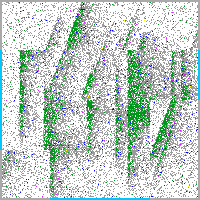
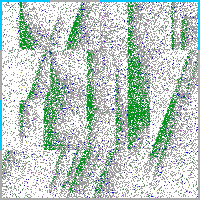
Regenerate FCM-PM demo with complementary partition (group of 2)
User intent: in a group of 2, one member claims chosen grid P, the other
claims the remaining grid ~P. Combining the two mixed chips reconstructs
the full chip image.

Implementation:
- ONE random partition into P and ~P (complementary halves)
- mixed_A (A label): A at P, B at ~P  (A's selected grid = P)
- mixed_B (B label): A at ~P, B at P  (A's grid = remaining ~P; complementary)
  -> A coverage across mixed_A + mixed_B: P ∪ ~P = full A
  -> B coverage across mixed_A + mixed_B: ~P ∪ P = full B
- masked_A (A-only): A at P, ~P white   (mask position = ~P)
- masked_B (B-only): B at ~P, P white   (mask position = P, DIFFERENT)

Previous design used two independent random partitions, so the two
mixes weren't complementary. Caption updated to describe the new flow.

Changed region(s): [[0.0, 0.0, 1.0, 0.51], [0.24, 0.75, 0.75, 1.0]]

diff --git a/tools/gen_fcm_pm_demo.py b/tools/gen_fcm_pm_demo.py
@@ -1,22 +1,18 @@
-"""Generate FCM-PM demo chips that match the per-class 50 group2 SOTA recipe.
+"""Generate FCM-PM demo chips with complementary partition (group of 2).
 
-Reference: `D:/project/known-cnn/chip_multilabel/_train_chip_variant.py:1131-1224`
-(`cutmix_mode == "complement"`). iter26F (group2 SOTA at per-class 50) = BASE19C
-with white-fill: complement mode + GRID=8 + n_groups=2 + pair=masked + label=1.0.
+User intent: chip 을 격자 P / ~P 두 그룹 (complementary) 으로 나누고,
+한쪽 group 멤버가 P 를 차지하면 다른 group 멤버는 ~P (남은 그리드) 를 차지하게
+한다. 두 mixed chip 의 같은 chip pixel 을 합치면 원본 chip 이 복원된다.
 
-For a pair (anchor, partner) and one random partition of GRID×GRID cells into
-groups G0 / G1, complement produces:
-  mix_i   = partner base + anchor cells of group_i overlaid     (label = anchor ∪ partner)
-  mask_i  = mix_i with the OTHER group cells white-filled       (label = anchor only)
+배치:
+- mixed_A (label A ∪ B): A at P, B at ~P  (A 의 선택 그리드 = P)
+- mixed_B (label A ∪ B): A at ~P, B at P  (A 의 선택 그리드 = ~P, complementary)
+  -> A 측 cell coverage: mixed_A 의 P + mixed_B 의 ~P = full A
+  -> B 측 cell coverage: mixed_A 의 ~P + mixed_B 의 P = full B
 
-To show both A-only and B-only masks at independent cell positions, we call
-complement twice:
-  - run 1: anchor=A, partner=B, partition P_A → use mix_0 + mask_0
-  - run 2: anchor=B, partner=A, partition P_B (independent) → use mix_0 + mask_0
-
-Outputs (1 row × 6 cols panel):
-  chip A | chip B | FCM mixed (A label set) | FCM mixed (B label set)
-        | Pair Mask (A-only)               | Pair Mask (B-only)
+- masked_A (label A only): A at P, ~P 흰색       (mixed_A 에서 A 부분만 추출)
+- masked_B (label B only): B at ~P, P 흰색       (mixed_A 에서 B 부분만 추출)
+  -> 두 mask 의 visible cell 도 P ∪ ~P = 전체 그리드, mask 위치는 서로 다름.
 """
 
 from __future__ import annotations
@@ -27,8 +23,7 @@ from PIL import Image, ImageDraw, ImageFont
 
 FIGURES = Path(r"D:/project/fbm_paper/recommendation/figures")
 SEED = 20260518
-GRID = 4           # demo-friendly (실제 iter26F SOTA 는 GRID=8)
-N_GROUPS = 2       # group2 SOTA
+GRID = 4
 WHITE = np.array([255, 255, 255], dtype=np.uint8)
 
 CHIP_A = FIGURES / "chip_eval_scratch_selected.png"
@@ -63,34 +58,37 @@ def cell_rect(idx: int, grid: int, H: int, W: int) -> tuple[int, int, int, int]:
     return y0, y1, x0, x1
 
 
-def complement_one_side(anchor: np.ndarray, partner: np.ndarray, grid: int, n_groups: int,
-                         rng: np.random.Generator) -> tuple[np.ndarray, np.ndarray]:
-    """Run complement mode for a single anchor and return (mix_0, mask_0).
-
-    mix_0  = partner base + anchor's group-0 cells overlaid  (label = anchor ∪ partner)
-    mask_0 = mix_0 with group-1+ cells white-filled          (label = anchor only)
-    """
-    H, W = anchor.shape[:2]
+def fcm_pair_complementary(a: np.ndarray, b: np.ndarray, grid: int, rng: np.random.Generator):
+    H, W = a.shape[:2]
     n_cells = grid * grid
-    cells_per_group = n_cells // n_groups
+    half = n_cells // 2
     perm = rng.permutation(n_cells)
-    groups = [perm[i * cells_per_group:(i + 1) * cells_per_group].tolist()
-              for i in range(n_groups)]
-    leftover = perm[cells_per_group * n_groups:].tolist()
-    if leftover:
-        groups[-1].extend(leftover)
+    P_idx = perm[:half].tolist()
+    notP_idx = perm[half:].tolist()
+    P_rects = [cell_rect(int(ci), grid, H, W) for ci in P_idx]
+    notP_rects = [cell_rect(int(ci), grid, H, W) for ci in notP_idx]
 
-    mix = partner.copy()
-    for ci in groups[0]:
-        y0, y1, x0, x1 = cell_rect(int(ci), grid, H, W)
-        mix[y0:y1, x0:x1] = anchor[y0:y1, x0:x1]
+    # mixed_A: A at P (kept), B overlaid at ~P
+    mixed_a = a.copy()
+    for y0, y1, x0, x1 in notP_rects:
+        mixed_a[y0:y1, x0:x1] = b[y0:y1, x0:x1]
 
-    mask = mix.copy()
-    for j in range(1, n_groups):
-        for ci in groups[j]:
-            y0, y1, x0, x1 = cell_rect(int(ci), grid, H, W)
-            mask[y0:y1, x0:x1] = WHITE
-    return mix, mask
+    # mixed_B: B at P (kept), A overlaid at ~P  -> A is at ~P, B is at P
+    mixed_b = b.copy()
+    for y0, y1, x0, x1 in notP_rects:
+        mixed_b[y0:y1, x0:x1] = a[y0:y1, x0:x1]
+
+    # masked_A (label A-only): A at P, ~P white
+    masked_a = a.copy()
+    for y0, y1, x0, x1 in notP_rects:
+        masked_a[y0:y1, x0:x1] = WHITE
+
+    # masked_B (label B-only): B at ~P, P white (DIFFERENT mask position from masked_A)
+    masked_b = b.copy()
+    for y0, y1, x0, x1 in P_rects:
+        masked_b[y0:y1, x0:x1] = WHITE
+
+    return mixed_a, mixed_b, masked_a, masked_b
 
 
 def label_panel(img: np.ndarray, text: str) -> np.ndarray:
@@ -114,8 +112,7 @@ def main() -> None:
     b = load_rgb(CHIP_B)
     assert a.shape == b.shape, f"shape mismatch: {a.shape} vs {b.shape}"
 
-    mixed_a, masked_a = complement_one_side(a, b, GRID, N_GROUPS, rng)
-    mixed_b, masked_b = complement_one_side(b, a, GRID, N_GROUPS, rng)
+    mixed_a, mixed_b, masked_a, masked_b = fcm_pair_complementary(a, b, GRID, rng)
 
     save_rgb(OUT_A, a)
     save_rgb(OUT_B, b)
@@ -140,7 +137,7 @@ def main() -> None:
         panel[:, x0:x0 + W] = p
     save_rgb(OUT_PANEL, panel)
 
-    print(f"GRID={GRID} N_GROUPS={N_GROUPS} pair_fill=white (iter26F group2 SOTA, per-class 50)")
+    print(f"GRID={GRID}  half={GRID*GRID//2}  complementary partition: P + ~P = full grid")
     print(f"wrote: a, b, mixed_a, mixed_b, masked_a, masked_b, panel ({OUT_PANEL.name})")
 
 